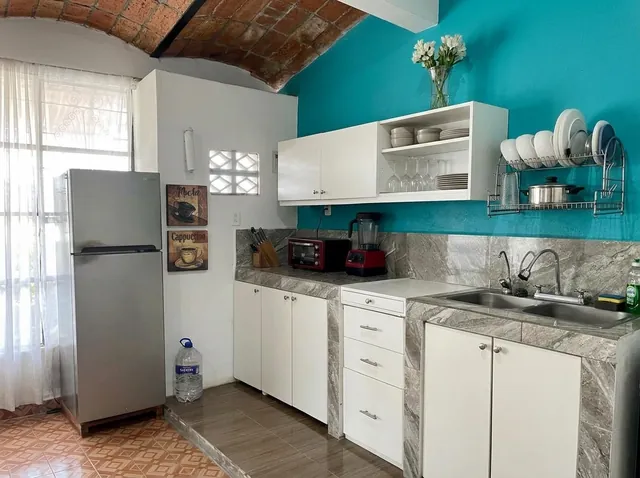
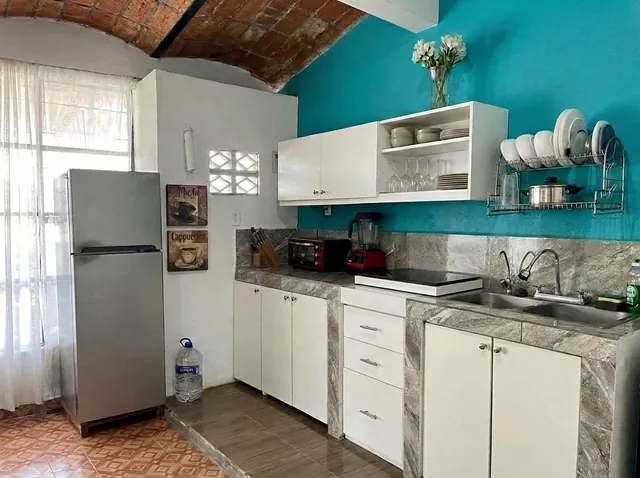
fix: restore the cooktop in the kitchen shot, correct the counter and list its equipment
The retouch had removed the electric cooktop from the kitchen frame; AGY
re-edited that photo and it is back, so public/images/cocina is regenerated
from the new source.

The caption also called the counter granite. It is not: the original shows
marbled tile with visible grout lines. Replaced with what the kitchen actually
has and what a long-stay tenant cares about — a Vitamix, a reverse-osmosis
water filter and the electric cooktop. The same three now appear in the
#apartment feature list in all three languages, so they are readable without
opening the gallery; the osmosis filter in particular is worth more than a
caption in a lightbox.

No occurrence of granite/granito/granit remains in any language.

Verified: the kitchen thumbnail opens on its own photo at 1200x896, captions
and features correct in the three languages, no broken images, no console
errors.

diff --git a/pages/index.js b/pages/index.js
@@ -25,7 +25,7 @@ export async function getServerSideProps({ res, query }) {
       tTags:['Sun terrace','Outdoor shower','BBQ'], tImgAlt:'Private rooftop terrace',
       aLabel:'The Apartment', aTitle:'The Apartment',
       aDesc:'Large open living room and kitchen with high ceilings and excellent natural airflow. Two A/C units for year-round comfort.',
-      aFeatures:['1 bedroom (functional and cool)','Large open living/kitchen space','2 A/C units + natural ventilation (often not needed)'],
+      aFeatures:['Equipped kitchen: Vitamix, reverse-osmosis water filter, electric cooktop','1 bedroom (functional and cool)','Large open living/kitchen space','2 A/C units + natural ventilation (often not needed)'],
       aNearby:'Everything within reach', aNearbyDesc:'Designed for long stays without a car.',
       aDist:[['🌊 Beach','3 blocks'],['🍍 Municipal market','5–10 min walk'],['🏙 Downtown PV','~10 min walk'],['🚌 Buses to Riviera Nayarit','~30 m'],['🏟 Unidad Deportiva Municipal','~50 m'],['🧺 Laundry service','~50 m']],
       aNote:'No in-unit washer, but laundry service is steps away.',
@@ -73,7 +73,7 @@ export async function getServerSideProps({ res, query }) {
       tTags:['Terraza soleada','Regadera exterior','BBQ'], tImgAlt:'Terraza privada',
       aLabel:'El Departamento', aTitle:'El departamento',
       aDesc:'Sala/comedor/cocina en un solo espacio amplio, con techo alto y muy buen airflow. Dos aires acondicionados para mayor confort.',
-      aFeatures:['1 recámara (funcional y fresca)','Espacio abierto sala/comedor/cocina','2 A/C + ventilación natural (muchos días no hacen falta)'],
+      aFeatures:['Cocina equipada: Vitamix, filtro de ósmosis y estufa eléctrica','1 recámara (funcional y fresca)','Espacio abierto sala/comedor/cocina','2 A/C + ventilación natural (muchos días no hacen falta)'],
       aNearby:'Lo que necesitas, cerca', aNearbyDesc:'Perfecto para estancias largas sin depender de coche.',
       aDist:[['🌊 Playa','3 cuadras'],['🍍 Mercado municipal','5–10 min caminando'],['🏙 Centro','~10 min caminando'],['🚌 Camiones a Riviera Nayarit','~30 m'],['🏟 Unidad Deportiva Municipal','~50 m'],['🧺 Lavandería','~50 m']],
       aNote:'El depa no tiene lavadora, pero hay lavandería a la vuelta.',
@@ -121,7 +121,7 @@ export async function getServerSideProps({ res, query }) {
       tTags:['Terrasse ensoleillée','Douche extérieure','BBQ'], tImgAlt:'Terrasse privée sur le toit',
       aLabel:"L'Appartement", aTitle:"L'appartement",
       aDesc:'Grand espace ouvert salon/cuisine avec hauts plafonds et excellente ventilation naturelle. Deux climatiseurs pour un confort optimal.',
-      aFeatures:['1 chambre (fonctionnelle et fraîche)','Grand espace ouvert salon/cuisine','2 climatiseurs + ventilation naturelle'],
+      aFeatures:['Cuisine équipée : Vitamix, filtre à osmose inverse, plaque électrique','1 chambre (fonctionnelle et fraîche)','Grand espace ouvert salon/cuisine','2 climatiseurs + ventilation naturelle'],
       aNearby:'Tout à portée de main', aNearbyDesc:'Idéal pour des séjours prolongés sans voiture.',
       aDist:[['🌊 Plage','3 blocs'],['🍍 Marché municipal','5–10 min à pied'],['🏙 Centre-ville','~10 min à pied'],['🚌 Bus vers Riviera Nayarit','~30 m'],['🏟 Complexe sportif municipal','~50 m'],['🧺 Laverie','~50 m']],
       aNote:"Pas de machine à laver, mais une laverie est à deux pas.",
@@ -204,7 +204,7 @@ export async function getServerSideProps({ res, query }) {
       "terraza-mesa": "Shaded dining table on the terrace",
       "terraza-celosia": "Terrace lattice and hillside view",
       "comedor": "Dining area in the open living space",
-      "cocina": "Equipped kitchen with granite counter",
+      "cocina": "Kitchen with Vitamix, reverse-osmosis water filter and electric cooktop",
       "cocina-ac": "Kitchen with A/C unit and vaulted ceiling",
       "recamara": "Main bedroom with upholstered headboard",
       "recamara-cama": "Bed with wooden headboard",
@@ -219,7 +219,7 @@ export async function getServerSideProps({ res, query }) {
       "terraza-mesa": "Mesa con sombra en la terraza",
       "terraza-celosia": "Celosía de la terraza y vista al cerro",
       "comedor": "Comedor en el espacio abierto",
-      "cocina": "Cocina equipada con barra de granito",
+      "cocina": "Cocina con Vitamix, filtro de ósmosis y estufa eléctrica",
       "cocina-ac": "Cocina con minisplit y bóveda",
       "recamara": "Recámara principal con cabecera capitonada",
       "recamara-cama": "Cama con cabecera de madera",
@@ -234,7 +234,7 @@ export async function getServerSideProps({ res, query }) {
       "terraza-mesa": "Table ombragée sur la terrasse",
       "terraza-celosia": "Claustra de la terrasse et vue sur la colline",
       "comedor": "Coin repas dans l’espace ouvert",
-      "cocina": "Cuisine équipée avec plan en granit",
+      "cocina": "Cuisine avec Vitamix, filtre à osmose inverse et plaque électrique",
       "cocina-ac": "Cuisine avec climatiseur et voûte",
       "recamara": "Chambre principale avec tête de lit capitonnée",
       "recamara-cama": "Lit avec tête de lit en bois",
